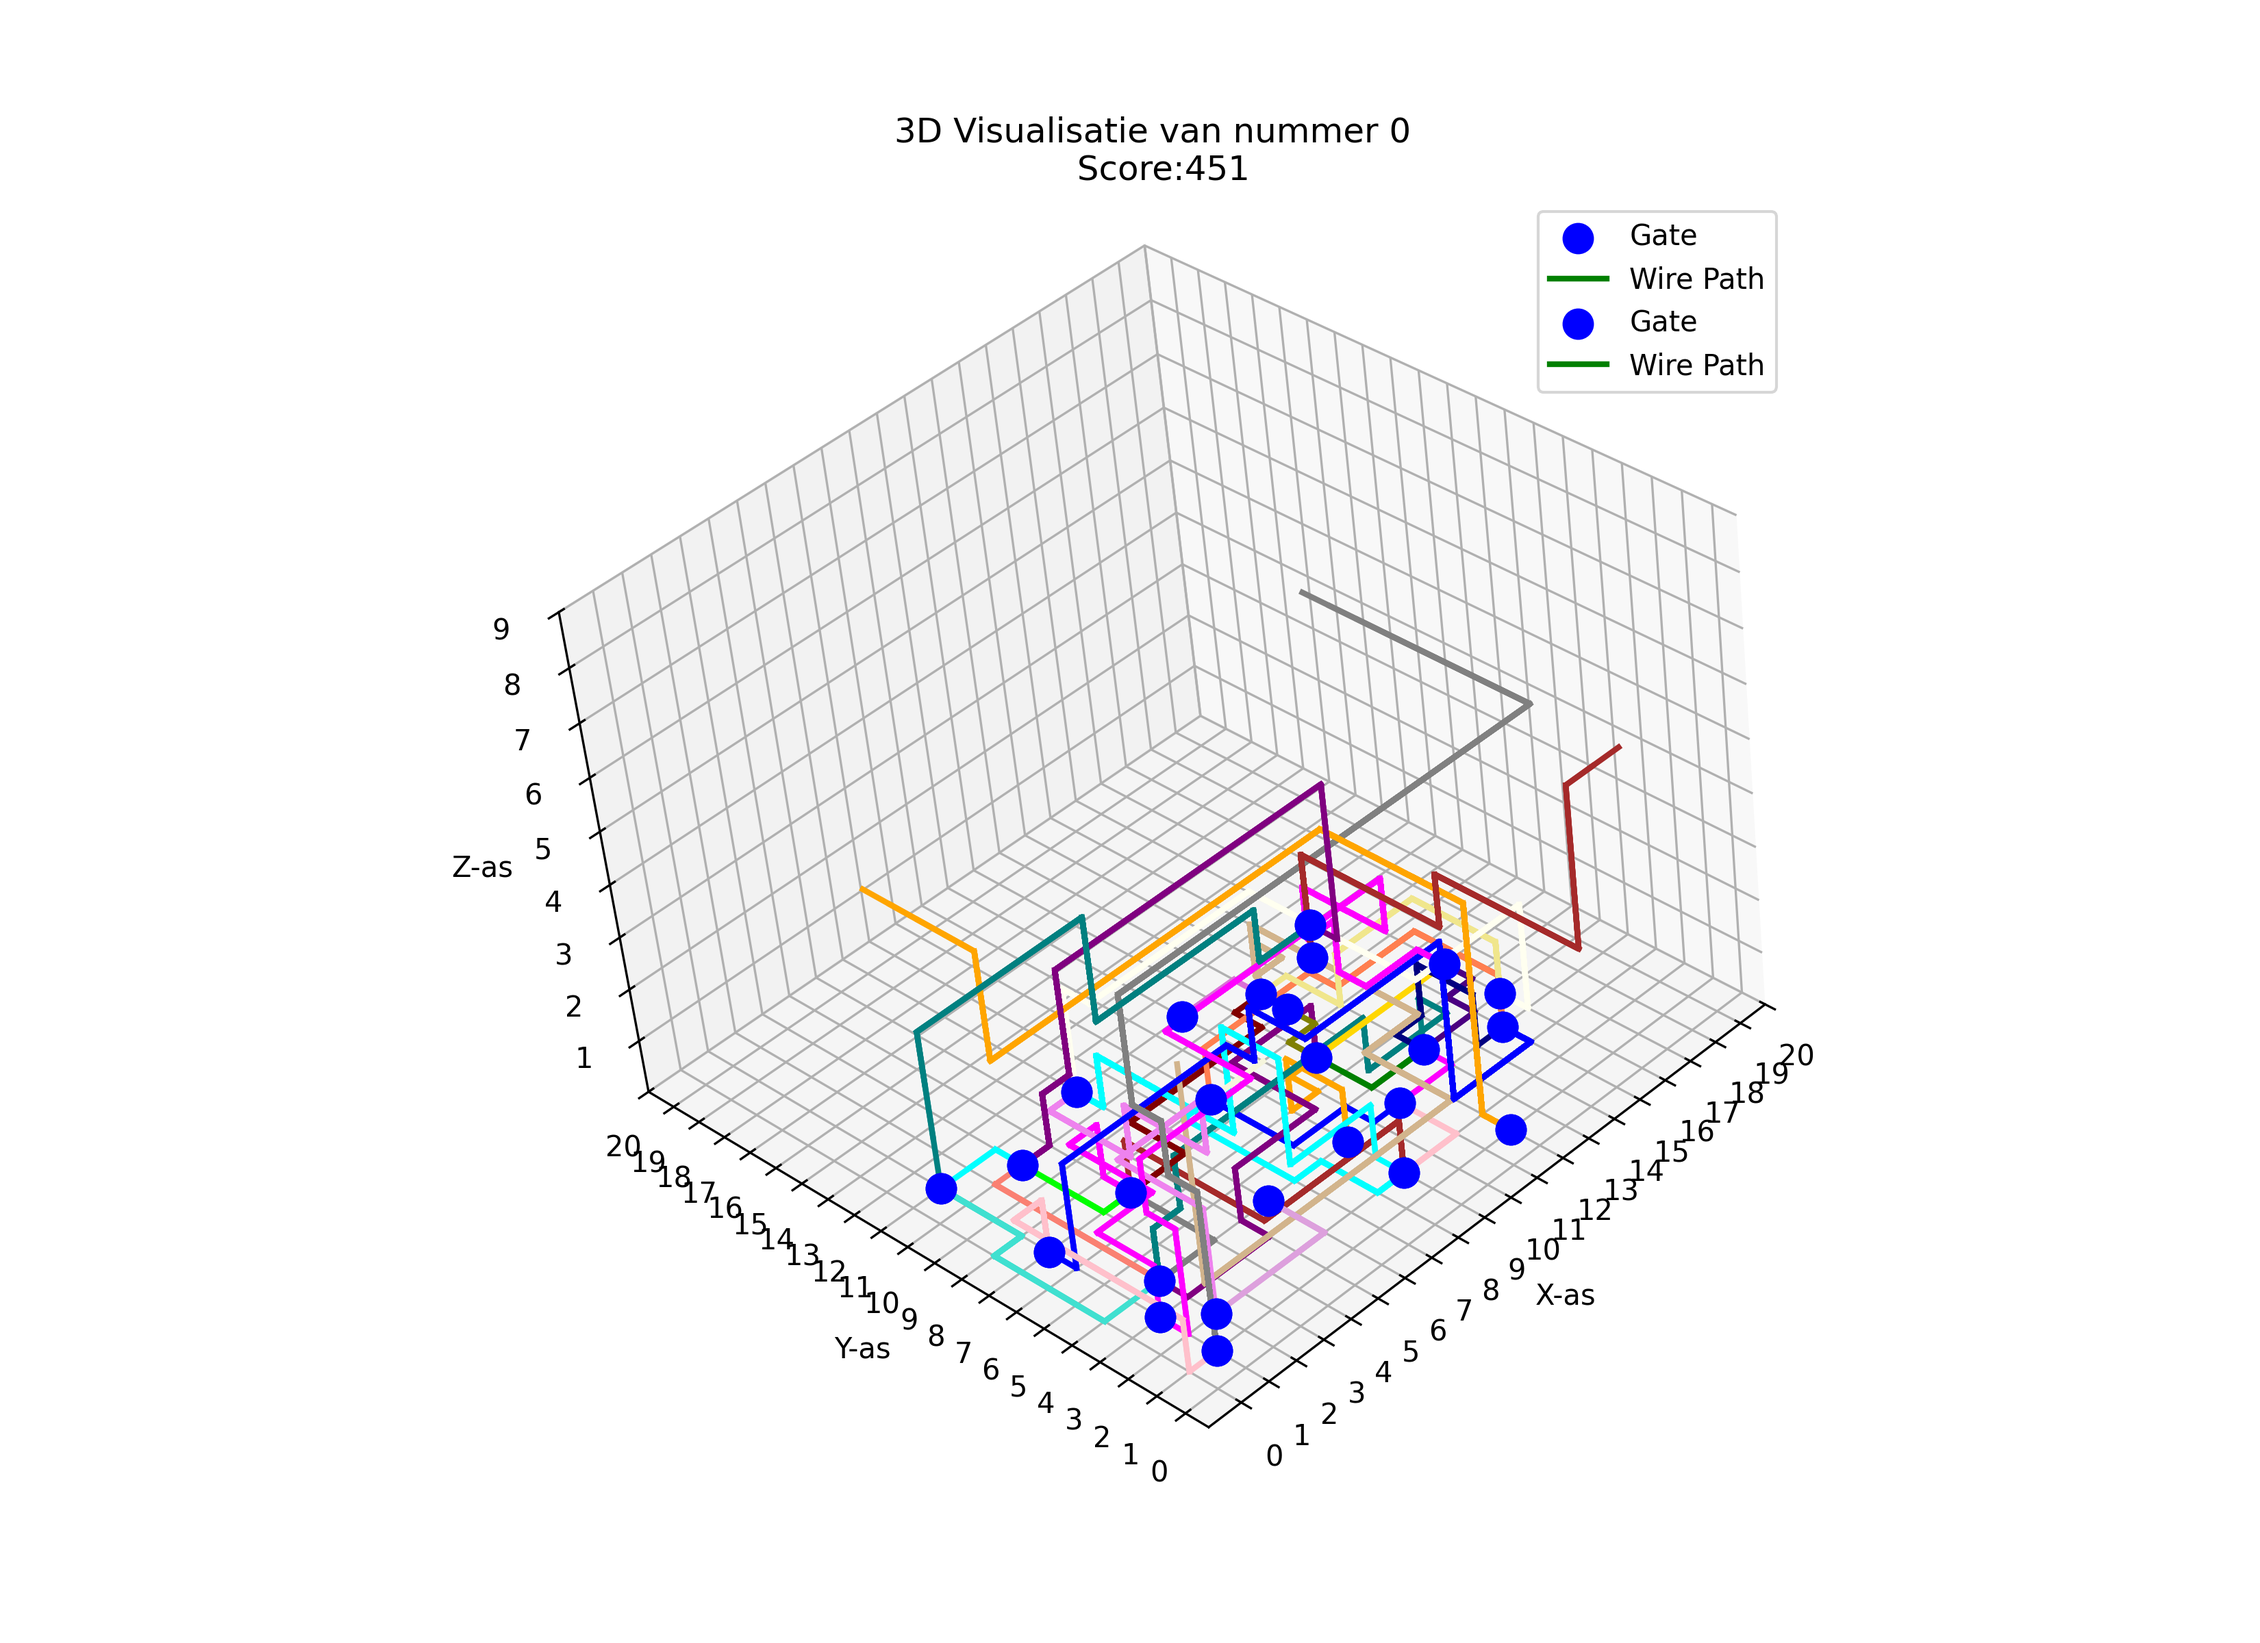
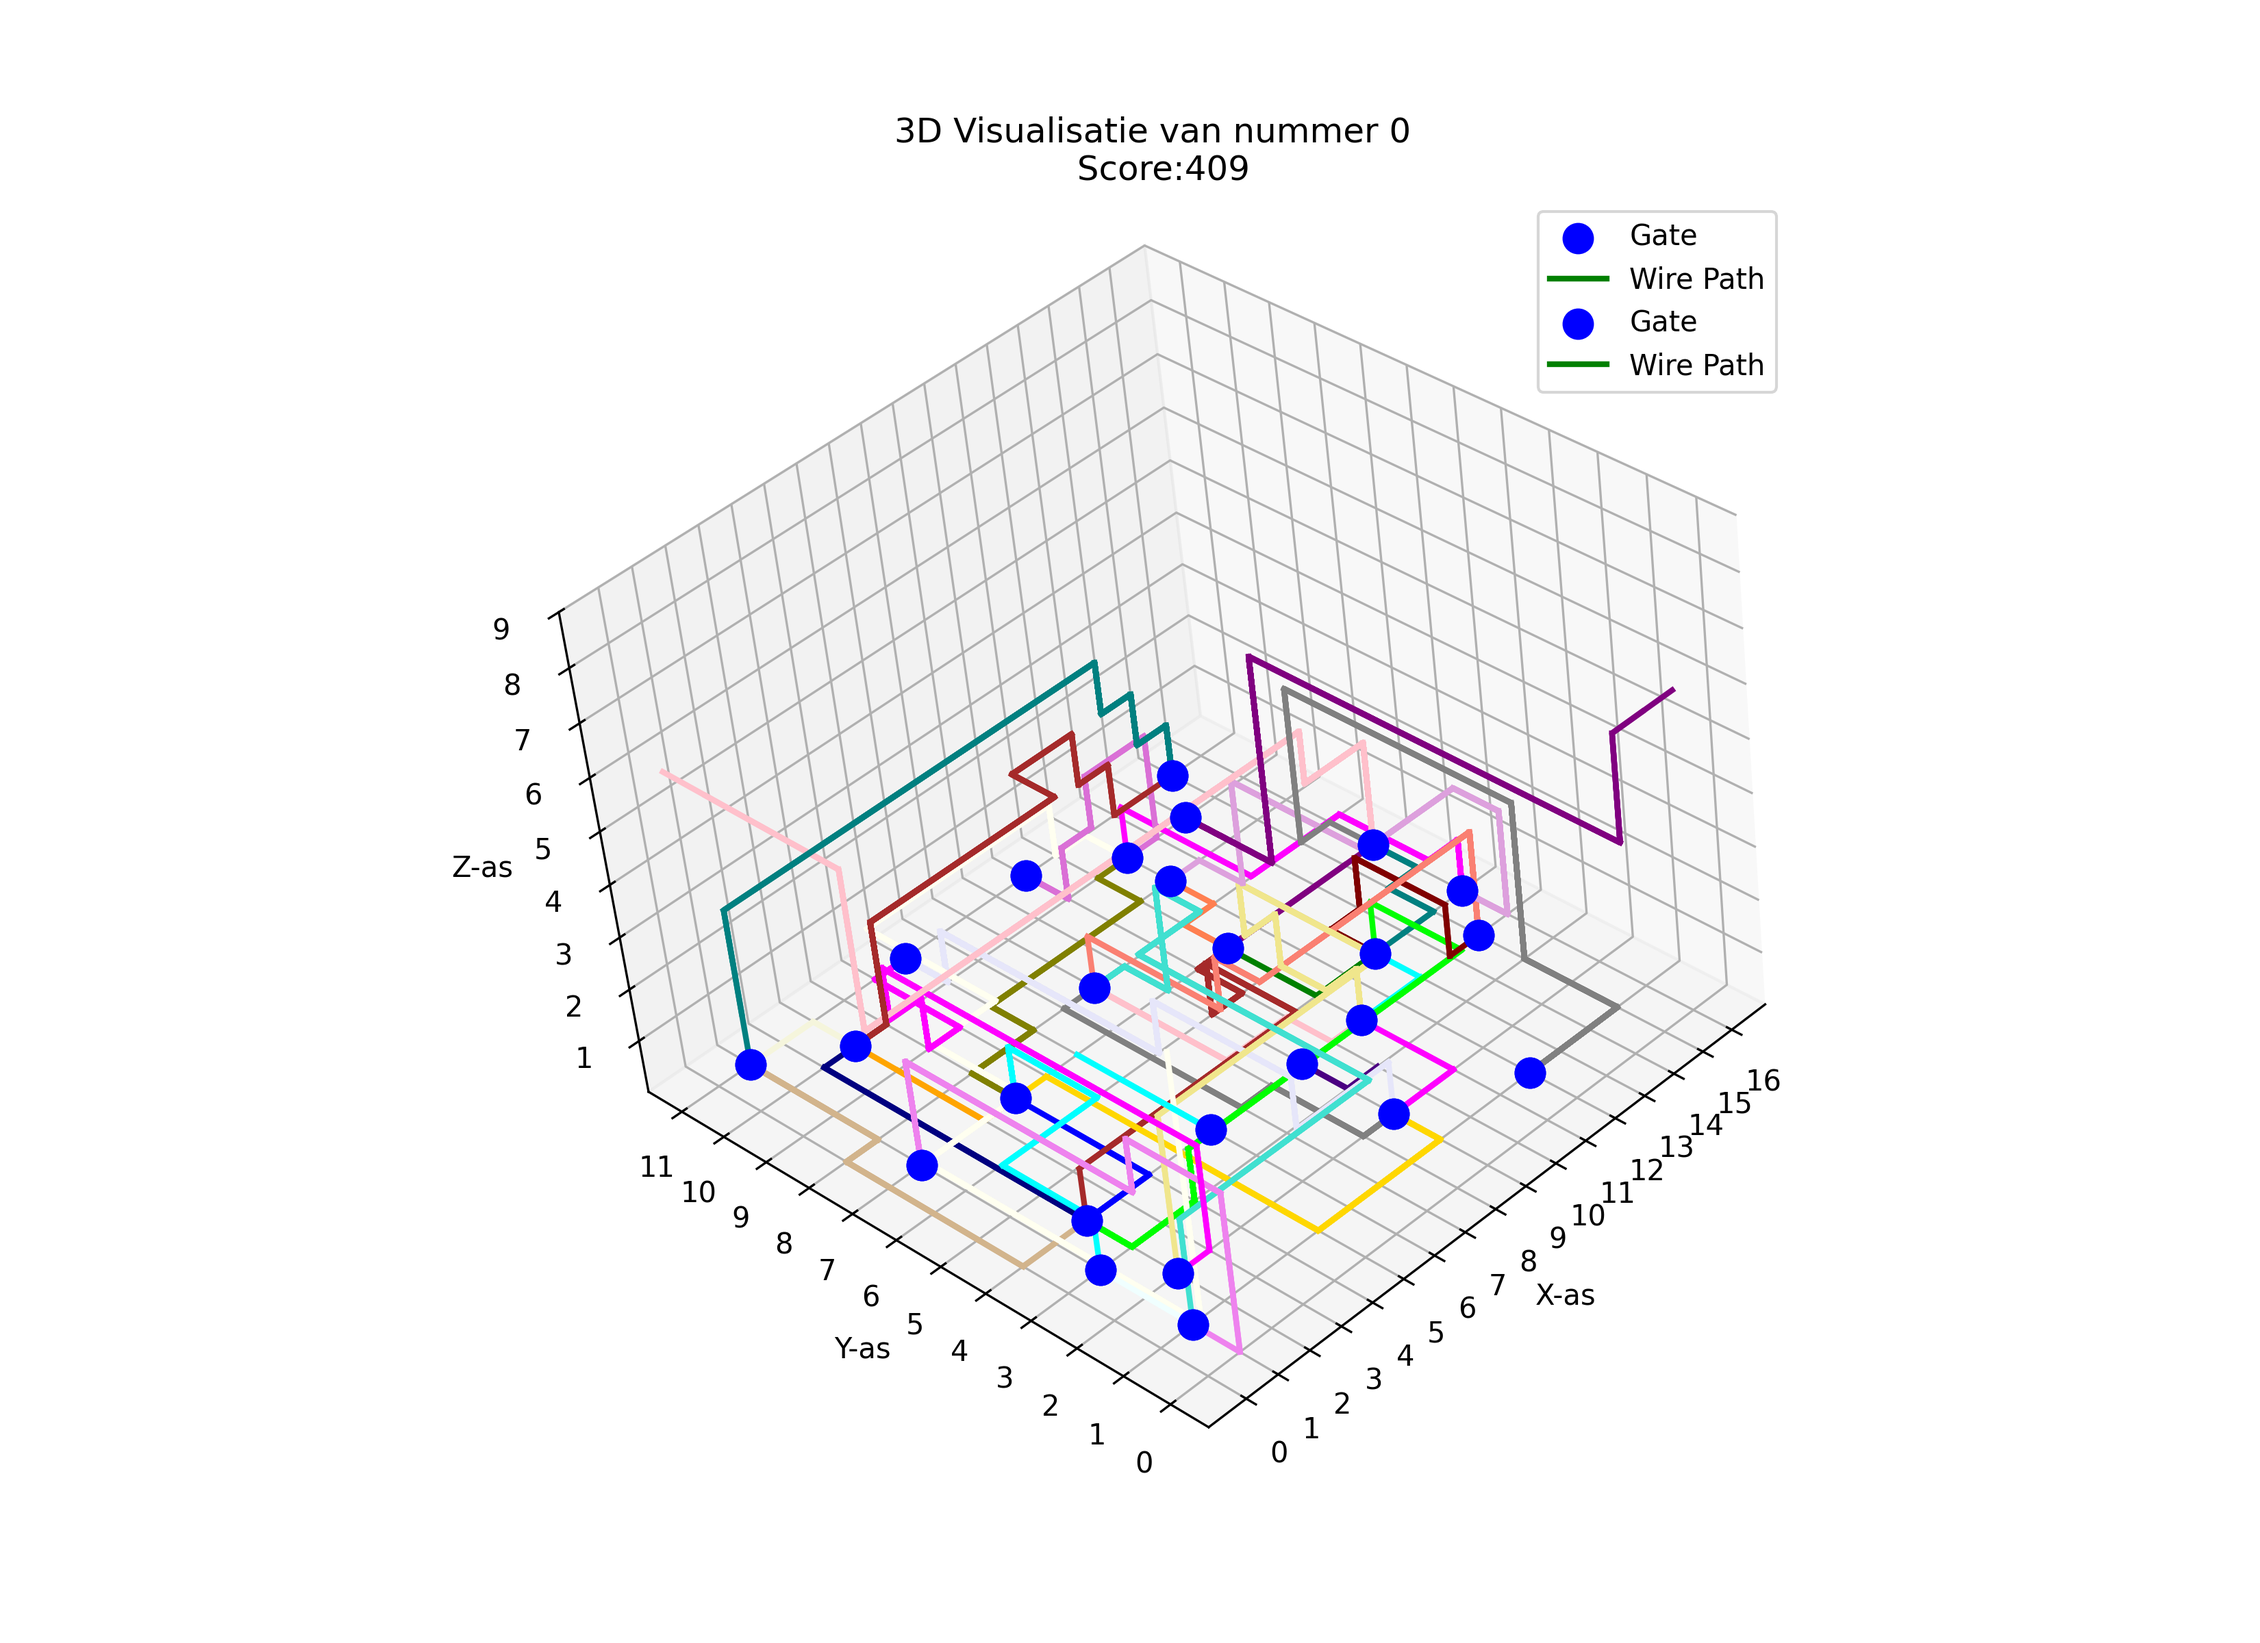
hil climber basis werkt

diff --git a/code/algorithms/hill_climber.py b/code/algorithms/hill_climber.py
@@ -1,21 +1,29 @@
 import random
-from classes.grid_edit import grid_edit
-from algorithms.manhattan_distance import ManhattanDistance
-
+from code.classes.grid_edit import grid_edit
+from code.algorithms.manhattan_distance import ManhattanDistance
 
 class hil_climber:
     """haalt een of meerdere wire verbinden tussen gates weg, en legt deze opnieuw met een bepaalde methode (zie reconstruct_ine)"""
     def __init__(self, grid_edit_obj):
         self.grid_edit = grid_edit_obj
 
-    def start_hill_climb(self):
+    def start_hill_climb(self, reset_amount, netlist):
         """activeer om de hill climber te starten"""
+        
+        total_wirelist = self.grid_edit.wirepaths_list 
+        print(netlist) 
+        print(reset_amount)
+        
+        self.loop_hill_climb(reset_amount, total_wirelist, netlist)
+        
 
     def reconstruct_line(self, chip_a, chip_b):
         """neemt een gegeven wire connection en legt deze opnieuw en gaat controleren of deze beter kan"""
 
+        ManhattanDistance_obj=ManhattanDistance(self.grid_edit)
+
         #geef hier op welke manier je wilt gebruiken om de lijn opnieuw te leggen
-        path = ManhattanDistance.shortest_path(chip_a, chip_b)
+        path = ManhattanDistance_obj.shortest_path(chip_a, chip_b)
         self.grid_edit.add_wire(path)
 
 
@@ -26,7 +34,10 @@ class hil_climber:
             y = wireconnection[i][0]
             x = wireconnection[i][1]
             z = wireconnection[i][2]
-            grid_edit.remove_wire(y,x,z)
+            #print(self.grid_edit.grid[z][y][x])
+
+            print(f"y={y}, x={x}, z={z}")
+            self.grid_edit.remove_wire(y, x, z)
 
     def loop_hill_climb(self, reset_amount, total_wirelist, netlist ):
         """reset_amount voor de hoeveelheid lijnen die je weg wilt halen, total_wirelist moet een list met alle lijnen die je hebt gelegt list, netlist moet de lijst zijn met de volgorde dat je draden hebt gelegt"""
@@ -35,24 +46,28 @@ class hil_climber:
         random.seed(31)
 
         remakelist=[]
-
-        for i in reset_amount:
+        i=0
+        while i <= reset_amount:
 
             #pakt een random wire in de total_wirelist
-            random_pick = random.randomint(0, len(total_wirelist))
+            random_pick = random.randint(0, len(total_wirelist))
             wireconnection=total_wirelist[random_pick]
 
             #zorgt dat de chips van de wirelist worden opgeslagen om later opnieuw te leggen
-            remakelist.append(netlist[random_pick][0])
-            remakelist.append(netlist[random_pick][1])
+            remakelist.append(((netlist[random_pick][0]), (netlist[random_pick][1])))
+
+            print(f"check(1){netlist[random_pick][0]}")
+            print(f"check(2){netlist[random_pick][1]}")
 
             #verwijder de complete wire lijn
             self.remove_wire_connection(wireconnection)
+            i+=1
 
-
+        print(remakelist)
         #met de opgeslagen chips, maak de wire opnieuw
         i=0
-        for i in reset_amount:
+        while i <= reset_amount:
             chip_a = remakelist[i][0]
             chip_b = remakelist[i][1]
             self.reconstruct_line(chip_a, chip_b)
+            i+=1

diff --git a/code/algorithms/manhattan_distance.py b/code/algorithms/manhattan_distance.py
@@ -25,7 +25,7 @@ class ManhattanDistance():
             elif self.grid_edit.grid[z][y][x] == 0:
                 return True        
         else:
-            print(f"position {pos} is occupied")
+            #print(f"position {pos} is occupied")
             return False
     
     def shortest_path(self, gate_1, gate_2):
@@ -66,11 +66,11 @@ class ManhattanDistance():
             # loops over the neighbors of the current point
             for dy, dx, dz in neighbors:
                 neighbor = (current[0] + dy, current[1] + dx, current[2] + dz)
-                print(f"Checking neighbor: {neighbor}")
+                #print(f"Checking neighbor: {neighbor}")
 
                 # checks if the neighbor is inside the grid                
                 if self.check_valid(neighbor, end) != True:
-                    print(f"Neighbor {neighbor} is invalid")
+                    #print(f"Neighbor {neighbor} is invalid")
                     continue
                 
                 # cost for moving to the neighbor

diff --git a/main.py b/main.py
@@ -38,7 +38,8 @@ if __name__ == "__main__":
 
 
     #----------------Hill climber---------------------------
-    #hil_climber_obj.start_hill_climb() #wertk nog niet
+    reset_wires = 5 #hoeveel wires je per keer wilt laten verwijderen en opnieuw leggen
+    hil_climber_obj.start_hill_climb(5, netlist_list) #wertk nog niet
 
     #-----------------resulten------------------------------
     wirecount = grid_edit_obj.update_wirecount()
